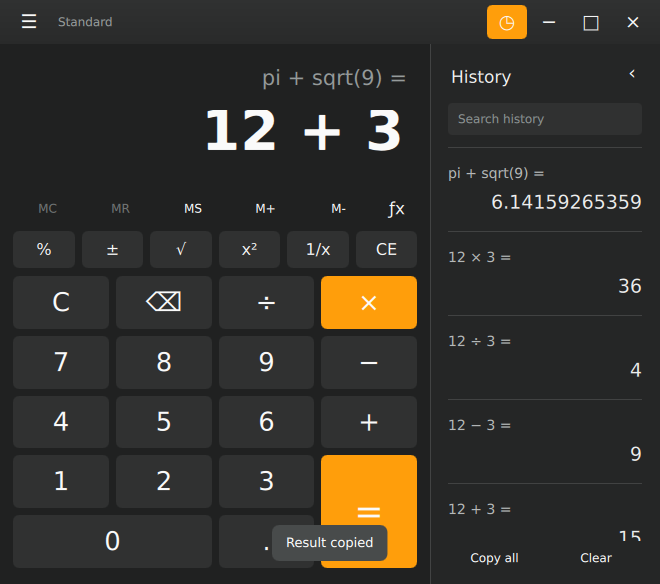
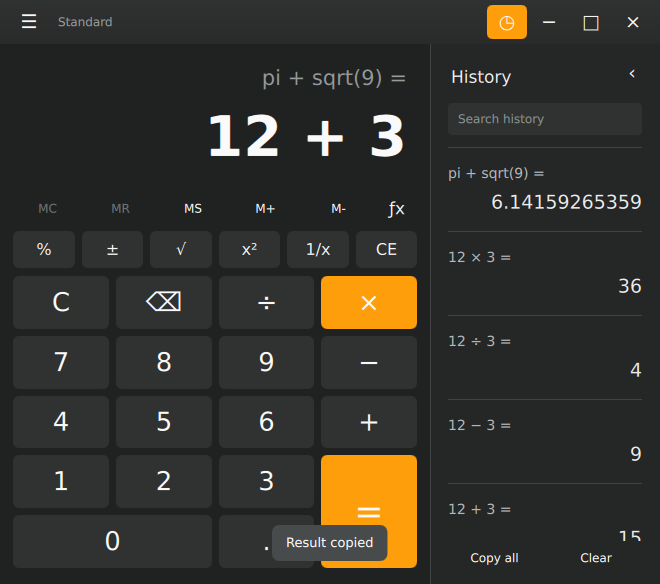
Fit long calculations in a clean display with explicit editing

Changed region(s): [[0.303, 0.1849, 0.4242, 0.2774], [0.5455, 0.1849, 0.6061, 0.2774], [0.4545, 0.1849, 0.5152, 0.2774]]

diff --git a/qml/Main.qml b/qml/Main.qml
@@ -14,6 +14,8 @@ ApplicationWindow {
  property bool historyOpen: prefs.historyOpen
  property bool scientific: prefs.scientific
  property var calcState: ({expression:"",result:"0",history:[],memory:null,error:false,done:false,notice:""})
+ property bool editing: false
+ function beginEditing(){editing=true;editor.forceActiveFocus();editor.selectAll()}
  property string toast: ""
  property string historyQuery: ""
  Settings { id: prefs; property bool historyOpen: true; property bool scientific: false; property bool grouping: true; property bool degrees: true; property bool onTop: false }
@@ -41,7 +43,7 @@ ApplicationWindow {
  Shortcut{sequence:"Ctrl+V";enabled:!editor.activeFocus;onActivated:pasteExpression()}
  Shortcut{sequence:"Ctrl+Z";enabled:!editor.activeFocus;onActivated:act("undo")}
  Shortcut{sequence:"Ctrl+Shift+Z";enabled:!editor.activeFocus;onActivated:act("redo")}
- Shortcut{sequence:"Ctrl+L";onActivated:{editor.forceActiveFocus();editor.selectAll()}}
+ Shortcut{sequence:"Ctrl+L";onActivated:beginEditing()}
  Shortcut{sequence:"Escape";onActivated:{settings.close();act("C");main.forceActiveFocus()}}
  component Key: Button {
   id: key
@@ -89,20 +91,29 @@ ApplicationWindow {
      Accessible.name:"Last calculation"
     }
     Text{x:8;y:83;text:calcState.memory!==null?"M":"";color:"#ffac29";font.pixelSize:12}
-    TextMetrics{id:displayMetrics;font.family:"DejaVu Sans";font.weight:Font.DemiBold;font.pixelSize:56;text:editor.text}
-    TextField{
-     id:editor;x:20;y:60;width:parent.width-40;height:65
-     text:activeFocus ? calcState.expression : (calcState.done||calcState.error ? pretty(calcState.result) : (expressionText(calcState.expression)||"0"))
+    Text{
+     id:mainDisplay;x:23;y:54;width:parent.width-46;height:78;visible:!win.editing
+     text:calcState.done||calcState.error ? pretty(calcState.result) : (expressionText(calcState.expression)||"0")
      color:calcState.error?"#ffba7a":"#fafafa";font.family:"DejaVu Sans";font.weight:Font.DemiBold
-     font.pixelSize:calcState.error?22:Math.max(18,Math.min(56,56*(width-16)/Math.max(1,displayMetrics.advanceWidth)))
+     font.pixelSize:calcState.error?22:56;minimumPixelSize:12;fontSizeMode:Text.Fit
+     wrapMode:Text.WrapAnywhere;maximumLineCount:2;elide:Text.ElideLeft
+     horizontalAlignment:Text.AlignRight;verticalAlignment:Text.AlignVCenter
+     Accessible.name:"Calculation";Accessible.description:text
+     MouseArea{anchors.fill:parent;acceptedButtons:Qt.LeftButton|Qt.RightButton;onClicked:mouse=>{if(mouse.button===Qt.RightButton)resultMenu.popup();else main.forceActiveFocus()};onDoubleClicked:win.beginEditing()}
+    }
+    TextMetrics{id:displayMetrics;font.family:"DejaVu Sans";font.weight:Font.DemiBold;font.pixelSize:56;text:editor.text}
+    TextInput{
+     id:editor;x:23;y:60;width:parent.width-46;height:65;visible:win.editing;clip:true
+     text:calcState.expression
+     color:"#fafafa";font.family:"DejaVu Sans";font.weight:Font.DemiBold
+     font.pixelSize:Math.max(12,Math.min(56,56*(width-4)/Math.max(1,displayMetrics.advanceWidth)))
      horizontalAlignment:Text.AlignRight;verticalAlignment:Text.AlignVCenter;selectByMouse:true
-     background:Rectangle{color:editor.activeFocus?"#2a2c2c":"transparent";radius:4;border.width:editor.activeFocus?1:0;border.color:"#585b5b"}
+     selectionColor:"#ff9e0b";selectedTextColor:"#141414"
+     onActiveFocusChanged:if(!activeFocus)win.editing=false
      onTextEdited:act("edit:"+normalize(text))
      Keys.onReturnPressed:event=>{event.accepted=true;act("=");main.forceActiveFocus()}
      Keys.onEnterPressed:event=>{event.accepted=true;act("=");main.forceActiveFocus()}
-     ToolTip.visible:hovered;ToolTip.text:"Edit an expression · Ctrl+L";ToolTip.delay:900
-     Accessible.name:"Calculation"
-     MouseArea{anchors.fill:parent;acceptedButtons:Qt.RightButton;onClicked:resultMenu.popup()}
+     Accessible.name:"Edit calculation"
     }
    }
    RowLayout{

diff --git a/scripts/screenshots.py b/scripts/screenshots.py
@@ -59,6 +59,8 @@ with tempfile.TemporaryDirectory(prefix='calc-screenshots-') as scratch:
         assert displayed_result()=='30', 'Expression editing evaluated before Enter'
         x('key','ctrl+l');x('key','Return');time.sleep(.1)
         assert 'zero' in displayed_result().lower()
+        x('key','Escape');x('type','--clearmodifiers','123456789.12345+987654321.98765');capture('long-expression.png')
+        x('key','ctrl+l');capture('long-editing.png');x('key','Tab')
         print('Letter operators, scientific editing, deferred evaluation and deferred errors passed')
         print(json.dumps({'screenshots':[str(out/f) for f in ['standard.png','scientific.png','options.png']],'visible_window':True,'history_verified':True,'developer_qt_sdk_loaded':sdk in maps,'log':(temp/'app.log').read_text()},indent=2))
     finally:

diff --git a/README.md b/README.md
@@ -1,6 +1,6 @@
 # Calc
 
-A native Linux calculator built with Rust and Qt Quick/QML. Calculations run only when you press Enter or the equals button; the expression appears in the main display while typing, then moves above the answer after calculation.
+A native Linux calculator built with Rust and Qt Quick/QML. Calculations run only when you press Enter or the equals button; the expression appears in the main display while typing, then moves above the answer after calculation. Long formulas scale and wrap within the display. Double-click the display or press Ctrl+L to edit directly.
 
 [Download v1.2.2](https://github.com/HappyCatKitten/Calc/releases/tag/v1.2.2) · [Test report](validation/REPORT.md)
 
